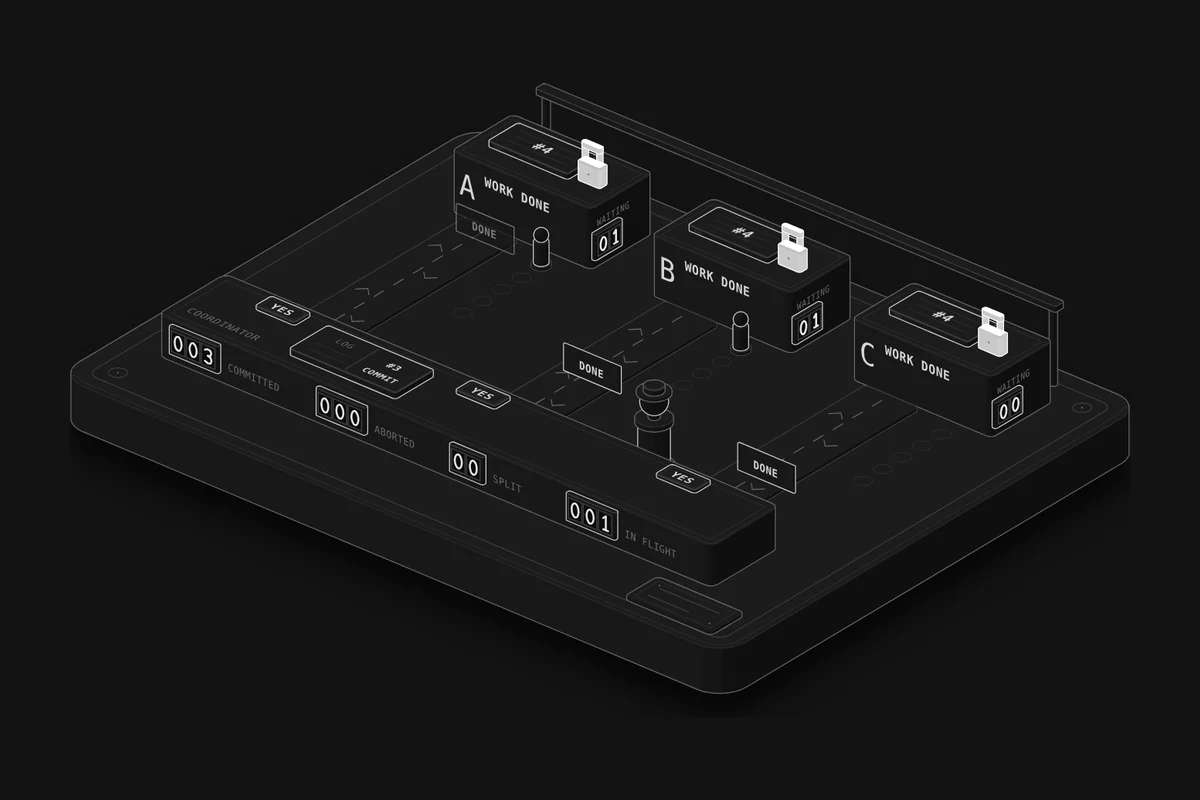
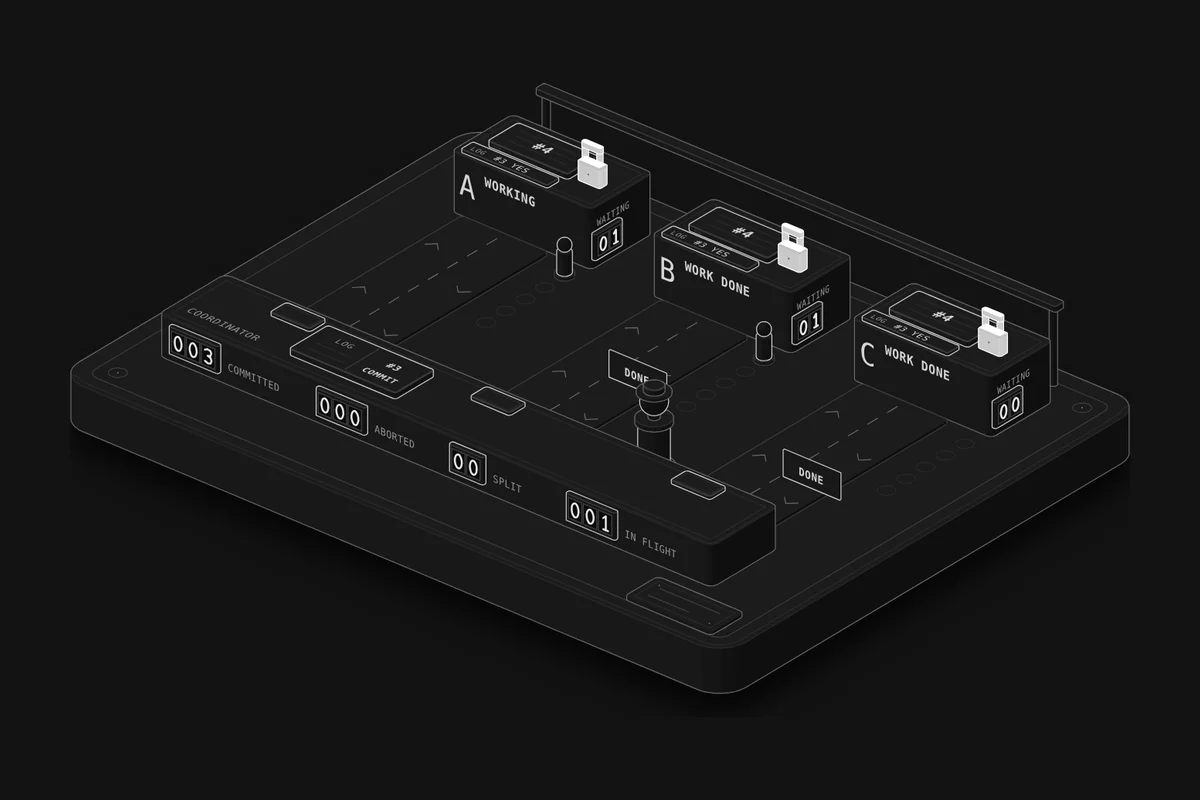
Lesson 64: fix review findings (vote plaques, lanes apart, Watch staging, rate stat)
- Vote plaques clear once their transaction is over.
- Out and back lanes an envelope's width apart, so passing envelopes never cover
  each other; customers' line moved right, with a "+N" tag past five.
- Commits a second now shows commits / arrivals over the same window (from 1 s in),
  so a burst of arrivals no longer reads as more commits than offered.
- Watch: crashes armed on the first transaction at 1/20; slow B and far apart warm
  up 1 s and 6 s; the memory-only crash runs on to 0.1 s before the coordinator is
  back; Ask the others picks a run whose crashed transaction got three yes votes
  and narrates the NOT SURE replies.
- Readout drops held messages after about a second; the crash-armed line reads as
  a sentence; aria label puts IN FLIGHT on the desk front.
- Each participant's LOG tab shows its last forced prepare record.
- Lit means the closed padlock only; the DOWN sign is unlit.

Claude-Session: https://claude.ai/code/session_01S5z2gCvevbrGU3fXgpGDmP

diff --git a/src/lessons/twophase/page.ts b/src/lessons/twophase/page.ts
@@ -100,7 +100,7 @@ const EXPERIMENTS = [
       "Before PREPARE, nobody has promised anything: each participant waits out its timeout (" + GIVE_UP + " here), rolls back and frees its row, and its customers are served while the coordinator is still down. A yes vote changes that. The participant has written a prepare record to its own log and promised to commit if told to, and it doesn't know how the others voted. It can't roll back on its own, because the coordinator may already have decided to commit and told the client; it can't commit on its own, because someone may have voted no. It is in doubt, and its row stays locked until it hears the decision: " + ms(C.voted.locked) + " here against " + ms(C.before.locked) + ", the whole outage plus the next question, with nobody served. That is the blocking problem of two-phase commit. A real outage lasts as long as the restart or the failover, often minutes, and the rows stay locked all that time.",
       "Antes de PREPARAR, nadie prometió nada: cada participante espera su tiempo límite (timeout, " + GIVE_UP + " aquí), revierte y libera su fila, y sus clientes se atienden aunque el coordinador siga caído. Un voto sí cambia eso. El participante escribió un registro de preparación en su propio log y prometió confirmar (commit) si se lo piden, y no sabe cómo votaron los demás. No puede revertir por su cuenta, porque el coordinador quizá ya decidió confirmar y se lo dijo al cliente; no puede confirmar por su cuenta, porque alguien quizá votó no. Está en duda (in doubt), y su fila sigue bloqueada (lock) hasta que conoce la decisión: " + ms(C.voted.locked) + " aquí contra " + ms(C.before.locked) + ", toda la caída más la siguiente consulta, sin atender a nadie. Ese es el problema de bloqueo del commit en dos fases. Una caída real dura lo que tarde el reinicio o la conmutación (failover), a menudo minutos, y las filas siguen bloqueadas todo ese tiempo.",
     ),
-    watch: { crash: "voted", b: "normal", net: "near", log: "log", doubt: "wait", arm: 0.1 },
+    watch: { crash: "voted", b: "normal", net: "near", log: "log", doubt: "wait", arm: 0, speed: 0.05 },
   },
   {
     id: "slow",
@@ -117,7 +117,7 @@ const EXPERIMENTS = [
       "A finishes its work quickly, but the coordinator can't send PREPARE until B is done too, and can't send COMMIT until every vote is in. A keeps its lock until the decision reaches it, the same moment as B: " + ms(W.normal.holdA) + " → " + ms(W.slow.holdA) + " a transaction, the same as B. Every participant holds its locks for the slowest participant's work plus the protocol's trips, so A's own customers now wait " + ms(W.slow.waitA) + " on average instead of " + ms(W.normal.waitA) + ", for a row A finished with long ago. Two-phase commit ties the participants together: their lock time is the slowest one's. That is why distributed transactions should do their reads and checks before taking locks, and touch as few participants as they can.",
       "A termina su trabajo rápido, pero el coordinador no puede enviar PREPARAR hasta que B también termine, ni CONFIRMAR hasta tener todos los votos. A mantiene su bloqueo hasta que le llega la decisión, en el mismo momento que B: " + ms(W.normal.holdA) + " → " + ms(W.slow.holdA) + " por transacción, lo mismo que B. Cada participante retiene sus bloqueos durante el trabajo del participante más lento más los viajes del protocolo, así que los clientes propios de A ahora esperan " + ms(W.slow.waitA) + " en promedio en vez de " + ms(W.normal.waitA) + ", por una fila con la que A terminó hace rato. El commit en dos fases ata a los participantes: su tiempo de bloqueo es el del más lento. Por eso las transacciones distribuidas deberían hacer sus lecturas y validaciones antes de tomar bloqueos, y tocar la menor cantidad de participantes posible.",
     ),
-    watch: { crash: "voted", b: "slow", net: "near", log: "log", doubt: "wait" },
+    watch: { crash: "voted", b: "slow", net: "near", log: "log", doubt: "wait", warm: 1 },
   },
   {
     id: "far",
@@ -135,7 +135,7 @@ const EXPERIMENTS = [
       "A row lock is held from the WORK message to the decision: the work, the DONE, PREPARE, vote and decision trips, and two forced log writes. At " + NEAR + " a trip that is " + ms(F.near.holdA) + " a transaction; at " + FAR + " it is " + ms(F.far.holdA) + ". A hot row takes one transaction at a time, so it can't commit more than about one per lock time: " + one(F.near.perSec) + " → " + one(F.far.perSec) + " a second here, and the rest pile up (" + n0(F.far.inFlight) + " waiting after a minute). Overlapping doesn't help, because the transactions queue on the same lock. Network latency that would only slow a request down becomes lock time under two-phase commit, and on a hot row lock time is throughput. Keep transactions that span services rare, short and close together, and split hot rows where you can (several counter rows instead of one).",
       "Un bloqueo de fila se mantiene desde el mensaje TAREA hasta la decisión: el trabajo, los viajes de HECHO, PREPARAR, el voto y la decisión, y dos escrituras forzadas al log. A " + NEAR + " por viaje eso es " + ms(F.near.holdA) + " por transacción; a " + FAR + " es " + ms(F.far.holdA) + ". Una fila caliente (hot row) acepta una transacción a la vez, así que no puede confirmar más de una por tiempo de bloqueo: " + one(F.near.perSec) + " → " + one(F.far.perSec) + " por segundo aquí, y el resto se acumula (" + n0(F.far.inFlight) + " esperando después de un minuto). Superponerlas no ayuda, porque las transacciones hacen fila en el mismo bloqueo. La latencia de red, que solo haría más lenta una solicitud, se vuelve tiempo de bloqueo con el commit en dos fases, y en una fila caliente el tiempo de bloqueo es rendimiento. Mantén raras, cortas y cercanas las transacciones que cruzan servicios, y divide las filas calientes cuando puedas (varias filas contador en vez de una).",
     ),
-    watch: { crash: "voted", b: "normal", net: "far", log: "log", doubt: "wait" },
+    watch: { crash: "voted", b: "normal", net: "far", log: "log", doubt: "wait", warm: 6 },
   },
   {
     id: "log",
@@ -153,7 +153,7 @@ const EXPERIMENTS = [
       "A got COMMIT and committed, and that can't be taken back. B and C are in doubt and keep asking. A coordinator that kept the decision in memory comes back with no record of the transaction, and no record means abort (presumed abort), so B and C roll back: " + cnt(G.memory.split) + " split outcomes in " + n0(G.memory.crashes) + " crashes, the one thing a commit protocol exists to prevent. With the COMMIT record forced to its log before the first COMMIT goes out, the restarted coordinator reads it and sends COMMIT again: " + cnt(G.log.allCommit) + " of " + n0(G.log.crashes) + " committed everywhere, 0 split. That forced write is the commit point: once it is on disk the transaction is committed, whoever has heard. Participants follow the same rule, forcing a prepare record before they vote yes, so one that restarts still knows it is in doubt (lesson 66, Write-Ahead Log).",
       "A recibió CONFIRMAR y confirmó, y eso no se puede deshacer. B y C están en duda y siguen preguntando. Un coordinador que guardó la decisión en memoria vuelve sin registro de la transacción, y sin registro significa abortar (aborto presunto, presumed abort), así que B y C revierten: " + cnt(G.memory.split) + " resultados divididos en " + n0(G.memory.crashes) + " caídas, justo lo que un protocolo de commit existe para evitar. Con el registro CONFIRMAR forzado al log antes de que salga el primer CONFIRMAR, el coordinador al reiniciar lo lee y vuelve a enviar CONFIRMAR: " + cnt(G.log.allCommit) + " de " + n0(G.log.crashes) + " confirmadas en todos, 0 divididas. Esa escritura forzada es el punto de commit: una vez en disco, la transacción está confirmada, lo sepa quien lo sepa. Los participantes siguen la misma regla y fuerzan un registro de preparación antes de votar sí, así que uno que se reinicia sigue sabiendo que está en duda (lección 66, Registro de escritura anticipada).",
     ),
-    watch: { crash: "midsend", b: "normal", net: "near", log: "memory", doubt: "wait", arm: 0.1 },
+    watch: { crash: "midsend", b: "normal", net: "near", log: "memory", doubt: "wait", arm: 0, toBack: 0.1, speed: 0.05 },
   },
   {
     id: "peers",
@@ -171,7 +171,7 @@ const EXPERIMENTS = [
       "A participant in doubt can learn the outcome from a peer that knows it: one that voted no (it rolled back at once), one that has already received the decision, or one that hasn't voted yet (it can still say no, so it rolls back and says so). Here that is B when it voted no, " + pct(Q.peers.bNo) + " of the crashes, and then A and C are free within milliseconds. When all three voted yes and none has heard the decision, nobody can decide: committing would be wrong if the coordinator had decided to abort (a vote that timed out, say), aborting would be wrong if it had committed and told the client. So the rows stayed locked until the coordinator was back in " + pct(Q.peers.blocked) + " of crashes, against " + pct(Q.wait.blocked) + " waiting. This is the cooperative termination protocol, and it shows the blocking window is built into two-phase commit: between the last yes and the decision, only the coordinator knows. Closing it takes replicating the coordinator's decision, so another node can finish from the log: Paxos Commit does that, and Spanner runs two-phase commit over Paxos groups.",
       "Un participante en duda puede conocer el resultado por un par que lo sepa: uno que votó no (revirtió de inmediato), uno que ya recibió la decisión, o uno que todavía no votó (aún puede decir que no, así que revierte y lo dice). Aquí ese es B cuando votó no, el " + pct(Q.peers.bNo) + " de las caídas, y entonces A y C quedan libres en milisegundos. Cuando los tres votaron sí y ninguno conoce la decisión, nadie puede decidir: confirmar estaría mal si el coordinador hubiera decidido abortar (por un voto que superó su tiempo límite, por ejemplo), abortar estaría mal si hubiera confirmado y se lo hubiera dicho al cliente. Así que las filas quedaron bloqueadas hasta que volvió el coordinador en el " + pct(Q.peers.blocked) + " de las caídas, contra el " + pct(Q.wait.blocked) + " esperando. Esto es el protocolo de terminación cooperativa (cooperative termination protocol), y muestra que la ventana de bloqueo es parte del commit en dos fases: entre el último sí y la decisión, solo el coordinador sabe. Cerrarla requiere replicar la decisión del coordinador, para que otro nodo pueda terminar desde el log: Paxos Commit hace eso, y Spanner ejecuta el commit en dos fases sobre grupos Paxos.",
     ),
-    watch: { crash: "voted", b: "no", net: "near", log: "log", doubt: "peers", arm: 0.1 },
+    watch: { crash: "voted", b: "no", net: "near", log: "log", doubt: "peers", arm: 0, allYes: true, speed: 0.05 },
   },
 ];
 
@@ -207,13 +207,13 @@ export default defineLesson({
     plate: {
       title: t("Commit desk", "Mesa de commit"),
       keys: [
-        { mark: "lit", label: t("A row locked by a transaction; the DOWN sign while the coordinator is down", "Una fila bloqueada por una transacción; el cartel CAÍDO mientras el coordinador está caído") },
+        { mark: "lit", label: t("A row's padlock, closed while a transaction holds the row", "El candado de una fila, cerrado mientras una transacción tiene la fila") },
         { mark: "raised", label: t("Envelopes: out to a counter on the left half of its lane, back on the right half; questions between counters on the peer line", "Sobres: hacia un mostrador por la mitad izquierda de su carril, de vuelta por la derecha; preguntas entre mostradores por la línea entre pares") },
         { mark: "flat", label: t("The lanes between the coordinator and each participant", "Los carriles entre el coordinador y cada participante") },
       ],
       caption: t(
-        "Played at 1/50 of real speed (change it under Speed). Times are illustrative and round: a message takes " + NEAR + " one way (" + FAR + " to another region), the work 5–15 ms, a forced log write 2 ms. Ten transactions a second, each touching the one hot row at every counter, and ten local requests a second at each counter, each holding the row 2 ms. A crashed coordinator is back after " + DOWN + ". A participant that hasn't voted gives up after " + GIVE_UP + " (" + GIVE_UP_FAR + " far apart); one that voted yes starts asking after " + ASK + " (" + ASK_FAR + ") and asks again every " + AGAIN + ". The front of each counter shows its state; the plaques on the desk, the votes received; the log, the last decision written down. Counters: committed, aborted, split (committed at some participants and rolled back at others), transactions in flight, and customers waiting at each counter.",
-        "Se reproduce a 1/50 de la velocidad real (cámbiala en Velocidad). Los tiempos son ilustrativos y redondos: un mensaje tarda " + NEAR + " de ida (" + FAR + " a otra región), el trabajo 5–15 ms, una escritura forzada al log 2 ms. Diez transacciones por segundo, cada una toca la única fila caliente de cada mostrador, y diez solicitudes locales por segundo en cada mostrador, cada una retiene la fila 2 ms. Un coordinador caído vuelve después de " + DOWN + ". Un participante que no votó se rinde después de " + GIVE_UP + " (" + GIVE_UP_FAR + " si están lejos); uno que votó sí empieza a preguntar después de " + ASK + " (" + ASK_FAR + ") y vuelve a preguntar cada " + AGAIN + ". El frente de cada mostrador muestra su estado; las placas del escritorio, los votos recibidos; el log, la última decisión escrita. Contadores: confirmadas, abortadas, divididas (confirmadas en algunos participantes y revertidas en otros), transacciones en curso y clientes esperando en cada mostrador.",
+        "Played at 1/50 of real speed (change it under Speed). Times are illustrative and round: a message takes " + NEAR + " one way (" + FAR + " to another region), the work 5–15 ms, a forced log write 2 ms. Ten transactions a second, each touching the one hot row at every counter, and ten local requests a second at each counter, each holding the row 2 ms. A crashed coordinator is back after " + DOWN + ". A participant that hasn't voted gives up after " + GIVE_UP + " (" + GIVE_UP_FAR + " far apart); one that voted yes starts asking after " + ASK + " (" + ASK_FAR + ") and asks again every " + AGAIN + ". Each counter shows its state on its front and its last prepare record on its LOG tab; the desk shows the votes received on its plaques and its last decision in its log. Counters: committed, aborted, split (committed at some participants and rolled back at others), in flight, and customers waiting.",
+        "Se reproduce a 1/50 de la velocidad real (cámbiala en Velocidad). Los tiempos son ilustrativos y redondos: un mensaje tarda " + NEAR + " de ida (" + FAR + " a otra región), el trabajo 5–15 ms, una escritura forzada al log 2 ms. Diez transacciones por segundo, cada una toca la única fila caliente de cada mostrador, y diez solicitudes locales por segundo en cada mostrador, cada una retiene la fila 2 ms. Un coordinador caído vuelve después de " + DOWN + ". Un participante que no votó se rinde después de " + GIVE_UP + " (" + GIVE_UP_FAR + " si están lejos); uno que votó sí empieza a preguntar después de " + ASK + " (" + ASK_FAR + ") y vuelve a preguntar cada " + AGAIN + ". Cada mostrador muestra su estado al frente y su último registro de preparación en su pestaña LOG; el escritorio muestra los votos recibidos en sus placas y su última decisión en su log. Contadores: confirmadas, abortadas, divididas (confirmadas en algunos participantes y revertidas en otros), en curso y clientes esperando.",
       ),
       stage: { "data-commit-desk": "" },
       label: t("Two-phase commit simulation. Space pauses or resumes.", "Simulación de commit en dos fases. Espacio pausa o reanuda."),
@@ -223,7 +223,7 @@ export default defineLesson({
       ["committed", t("Committed", "Confirmadas")],
       ["aborted", t("Aborted", "Abortadas")],
       ["split", t("Split", "Divididas")],
-      ["rate", t("Commits a second", "Confirmadas por segundo"), "–"],
+      ["rate", t("Commits / arrivals a second", "Confirmadas / llegadas por segundo"), "–"],
       ["hold", t("Row lock at A", "Bloqueo de fila en A"), "–"],
       ["waiting", t("Customers waiting", "Clientes esperando")],
     ],

diff --git a/src/lessons/twophase/live.ts b/src/lessons/twophase/live.ts
@@ -20,6 +20,8 @@ export default function mount({ P, G, ENV_SVG, CUSTOMER_SVG }, root) {
   const owners = [0, 1, 2].map((i) => q(`[data-owner="${i}"]`));
   const states = [0, 1, 2].map((i) => q(`[data-state="${i}"]`));
   const votes = [0, 1, 2].map((i) => q(`[data-vote="${i}"]`));
+  const plogs = [0, 1, 2].map((i) => q(`[data-plog="${i}"]`));
+  const more = [0, 1, 2].map((i) => q(`[data-more="${i}"]`));
   const recId = q("[data-record-id]"), recText = q("[data-record]");
   const bookLog = q('[data-book="log"]'), bookMem = q('[data-book="memory"]');
   const clerk = q("[data-clerk]"), down = q("[data-down]");
@@ -57,32 +59,41 @@ export default function mount({ P, G, ENV_SVG, CUSTOMER_SVG }, root) {
   // ---------- settings and the run ----------
   const cfg = { point: "voted", b: "normal", net: "near", log: "log", doubt: "wait", speed: 0.02 };
   // the first run's seed: one where a transaction holds the rows a few seconds in, so the still frame shows the locks
-  let model, clock, logAt, from, seed = 10, lastEnd, focus, shownVotes, pendingArm = null;
+  let model, clock, logAt, from, seed = 10, lastEnd, focus, shownVotes, pendingArm = null, lastPrep;
 
-  function restart() {
+  function restart(fixedSeed) {
     for (const e of envs.values()) { e.g.remove(); envFree.push(e); }
     envs.clear();
     for (const c of custs.values()) { c.g.remove(); custFree.push(c); }
     custs.clear();
-    model = makeSim({ b: cfg.b, net: cfg.net, log: cfg.log, doubt: cfg.doubt, trace: true }, seed);
-    seed = (seed * 7 + 3) % 9973 + 1;
-    clock = 0; logAt = 0; from = 0; lastEnd = [null, null, null]; focus = null; shownVotes = ["", "", ""]; pendingArm = null;
+    model = makeSim(simCfg(), fixedSeed ?? seed);
+    if (fixedSeed === undefined) seed = (seed * 7 + 3) % 9973 + 1;
+    clock = 0; logAt = 0; from = 0; lastEnd = [null, null, null]; focus = null; shownVotes = ["", "", ""]; pendingArm = null; lastPrep = ["", "", ""];
+    cur = null; held = null;
     show(bookLog, cfg.log === "log"); show(bookMem, cfg.log !== "log");
     paint();
     showStats();
   }
 
+  const simCfg = () => ({ b: cfg.b, net: cfg.net, log: cfg.log, doubt: cfg.doubt, trace: true });
+
   // ---------- narration ----------
-  let held = null, saidAt = -9, saidRank = 0;
+  // The readout says each step as it starts. A more important message stays up for at least HOLD s of page time; a
+  // less important one that comes meanwhile waits, and is dropped if something newer comes or it waits longer than
+  // STALE s, so the readout never runs behind the picture by more than about a second.
+  const HOLD = 0.9, STALE = 1.1;
+  let cur = null, held = null;
   function say(rank, text) {
-    // a message stays up at least 1.4 s of page time unless a more important one comes; a less important one waits
     const wall = performance.now() / 1000;
-    if (rank < saidRank && wall - saidAt < 1.4) { if (!held || rank >= held.rank) held = { rank, text }; return; }
-    held = null; saidRank = rank; saidAt = wall;
+    if (cur && rank < cur.rank && wall - cur.at < HOLD) { held = { rank, text, at: wall }; return; }
+    held = null; cur = { rank, at: wall };
     root.figure.say(L(text));
   }
   function sayHeld() {
-    if (held && performance.now() / 1000 - saidAt >= 1.4) { const h = held; held = null; saidRank = -1; say(h.rank, h.text); }
+    if (!held) return;
+    const wall = performance.now() / 1000;
+    if (wall - held.at > STALE) { held = null; return; }
+    if (wall - cur.at >= HOLD) { const h = held; held = null; cur = null; say(h.rank, h.text); }
   }
   const ms = (x) => (x < 1 ? Math.round(1000 * x) + " ms" : x.toFixed(2) + " s");
   const list = (xs, en) => (xs.length === 1 ? xs[0] : xs.slice(0, -1).join(", ") + (en ? " and " : " y ") + xs[xs.length - 1]);
@@ -112,6 +123,8 @@ export default function mount({ P, G, ENV_SVG, CUSTOMER_SVG }, root) {
           else say(6, T("coordinator back · no decision logged · questions get ABORT", "coordinador de vuelta · sin decisión en el log · las consultas reciben ABORTAR"));
           break;
         case "doubt": say(5, T(who + " voted yes · no answer · in doubt, row locked", who + " votó sí · sin respuesta · en duda, fila bloqueada")); break;
+        case "prepared": lastPrep[e.i] = "#" + e.id; break;
+        case "unsure": say(5, T(who + " asks " + NAMES[e.j] + " · " + NAMES[e.j] + " voted yes too, not sure · row stays locked", who + " pregunta a " + NAMES[e.j] + " · " + NAMES[e.j] + " también votó sí, no sabe · la fila sigue bloqueada")); break;
         case "split": {
           const c = e.outcome.map((o, i) => (o === "commit" ? NAMES[i] : null)).filter(Boolean), a = e.outcome.map((o, i) => (o === "abort" ? NAMES[i] : null)).filter(Boolean);
           say(8, T(id + " SPLIT · committed at " + list(c, true) + ", rolled back at " + list(a, true), id + " DIVIDIDA · confirmada en " + list(c, false) + ", revertida en " + list(a, false)));
@@ -211,14 +224,19 @@ export default function mount({ P, G, ENV_SVG, CUSTOMER_SVG }, root) {
       else s = STATE.free;
       setText(states[i], L(s));
       counters["wait" + i].setClamped(p.waiting);
+      setText(plogs[i], lastPrep[i] ? lastPrep[i] + " " + L(WORD.yes) : "");
+      const line = (p.holder && p.holder.kind === "local" ? 1 : 0) + p.waiting;
+      setText(more[i], line > G.CUST.max ? "+" + (line - G.CUST.max) : "");
     });
     // the desk
     const co = model.coord;
     show(clerk, co.up); show(down, !co.up);
     const c = focus !== null ? co.txns.get(focus) : null;
+    // the votes for the transaction being decided; blank once it is over, "?" while a crashed coordinator has
+    // forgotten it (a memory-only coordinator forgets everything, plaques included)
     if (c) shownVotes = c.votes.map((v) => (v === null ? "…" : L(WORD[v])));
-    else if (!co.up && cfg.log !== "log") shownVotes = ["", "", ""];
-    else if (!co.up && focus !== null && !co.txns.has(focus)) shownVotes = ["?", "?", "?"];
+    else if (!co.up && cfg.log === "log" && focus !== null) shownVotes = ["?", "?", "?"];
+    else shownVotes = ["", "", ""];
     votes.forEach((el, i) => setText(el, shownVotes[i]));
     setText(recId, co.record ? "#" + co.record.id : "");
     setText(recText, co.record ? L(WORD[co.record.decision]) : "");
@@ -244,9 +262,15 @@ export default function mount({ P, G, ENV_SVG, CUSTOMER_SVG }, root) {
     stat("committed", st.committed);
     stat("aborted", st.aborted);
     stat("split", st.split);
+    // commits and arrivals over the same window, the last 2 s of model time (from 1 s in, the time so far)
     const span = Math.min(2, clock);
-    if (span < 0.5) stat("rate", "–");
-    else { let k = 0; for (let j = st.ends.length - 1; j >= 0 && st.ends[j] > clock - span; j--) k++; stat("rate", (k / span).toFixed(1) + "/s"); }
+    if (span < 1) stat("rate", "–");
+    else {
+      let k = 0, a = 0;
+      for (let j = st.ends.length - 1; j >= 0 && st.ends[j] > clock - span; j--) k++;
+      for (let j = model.all.length - 1; j >= 0 && model.all[j].born > clock - span; j--) a++;
+      stat("rate", (k / span).toFixed(1) + " / " + (a / span).toFixed(1));
+    }
     const h = st.holds[0].slice(-10).map(([, x]) => x);
     stat("hold", h.length ? Math.round(1000 * mean(h)) + " ms" : "–");
     stat("waiting", model.parts.reduce((a, p) => a + p.waiting, 0));
@@ -274,12 +298,16 @@ export default function mount({ P, G, ENV_SVG, CUSTOMER_SVG }, root) {
   }
   root.on("change", (name, value) => set(name, value));
   const wake = () => { if (loop.paused) loop.setPaused(false); };
-  const POINT = { before: T("before PREPARE", "antes de PREPARAR"), voted: T("while the votes come in", "mientras llegan los votos"), midsend: T("after COMMIT reaches A", "tras CONFIRMAR a A") };
+  const ARMED = {
+    before: T("crash armed · the next transaction, once all three are done, before PREPARE", "caída preparada · la siguiente transacción, con los tres listos, antes de PREPARAR"),
+    voted: T("crash armed · the next transaction, as its first vote comes in", "caída preparada · la siguiente transacción, al llegar su primer voto"),
+    midsend: T("crash armed · the next transaction, once COMMIT reaches A", "caída preparada · la siguiente transacción, cuando CONFIRMAR llega a A"),
+  };
   const actions = {
     crash: () => {
       if (!model.coord.up) { say(9, T("the coordinator is already down", "el coordinador ya está caído")); return; }
       model.arm(cfg.point);
-      say(9, T("crash armed · " + POINT[cfg.point].en + " of the next transaction", "caída preparada · " + POINT[cfg.point].es + " de la siguiente transacción"));
+      say(9, ARMED[cfg.point]);
       wake();
     },
     reset: () => { restart(); say(9, T("started over", "empezó de nuevo")); },
@@ -287,11 +315,49 @@ export default function mount({ P, G, ENV_SVG, CUSTOMER_SVG }, root) {
   root.on("action", (name) => actions[name]?.());
 
   // ---------- "Watch it on the machine": an experiment's settings ----------
+  // w.speed: the speed it plays at. w.arm: arm the crash at that model time (0: the first transaction). w.warm: run the
+  // model this far at once, so the counters and the line at the rows have built up. w.toBack: with a crash, run on to
+  // this long before the coordinator is back. w.allYes: use a run whose crashed transaction got three yes votes (the
+  // common case, the one asking the others can't settle).
+  function crashedRun(w, s) {
+    const m = makeSim(simCfg(), s);
+    m.arm(w.crash);
+    for (let t = 0; t <= 1 && !m.st.crashRecs.length; t += 0.002) m.runTo(t);
+    const rec = m.st.crashRecs[0];
+    if (!rec) return null;
+    m.runTo(rec.t + 0.1);
+    return { rec, yes: m.all[rec.id - 1].outcome.every((o) => o === null) };
+  }
   root.on("watch", (w) => {
     for (const key of ["b", "net", "log", "doubt"]) set(key, w[key], true);
     set("point", w.crash, true);
-    restart();
-    if (w.arm !== undefined) pendingArm = { at: w.arm, point: w.crash };
+    if (w.speed) set("speed", w.speed, true);
+    let s;
+    if (w.allYes) for (let k = 0, x = seed; k < 40; k++, x = (x * 7 + 3) % 9973 + 1) { const r = crashedRun(w, x); if (r && r.yes) { s = x; break; } }
+    restart(s);
+    if (w.arm !== undefined) { if (w.arm <= 0) model.arm(w.crash); else pendingArm = { at: w.arm, point: w.crash }; }
+    let to = w.warm || 0;
+    if (w.toBack !== undefined) {
+      for (let t = 0; t <= 1 && !model.st.crashRecs.length; t += 0.002) model.runTo(t);
+      const rec = model.st.crashRecs[0];
+      if (rec) to = Math.max(to, rec.upAt - w.toBack);
+    }
+    if (to > 0) {
+      model.runTo(to);
+      clock = to;
+      // narrate only what is still going on: the crash, if the coordinator is still down
+      for (; logAt < model.log.length && model.log[logAt].t <= to; logAt++) {
+        const e = model.log[logAt];
+        if (e.type === "prepared") lastPrep[e.i] = "#" + e.id;
+        if (e.type === "prepare") focus = e.id;
+        if (e.type === "commit" || e.type === "abort") lastEnd[e.i] = { outcome: e.type, at: e.t };
+      }
+      while (from < model.msgs.length && model.msgs[from].arrive + 0.15 * cfg.speed < clock) from++;
+      cur = null; held = null;
+      if (!model.coord.up) say(6, T("coordinator down · back in " + ms(model.coord.upAt - clock), "coordinador caído · vuelve en " + ms(model.coord.upAt - clock)));
+      else { const n = model.inFlight(); say(1, T("after " + to.toFixed(1) + " s: " + n + (n === 1 ? " transaction" : " transactions") + " in flight", "tras " + to.toFixed(1) + " s: " + n + (n === 1 ? " transacción" : " transacciones") + " en curso")); }
+      paint(); showStats();
+    }
     wake();
   });
 

diff --git a/src/lessons/twophase/figure.ts b/src/lessons/twophase/figure.ts
@@ -1,11 +1,13 @@
 // @ts-nocheck: figure code in the style of the other lessons; drawing shorthands come from src/lib/draw.
 // A coordinator's desk and three participant counters, A, B and C. At the back, each counter keeps one hot row on its
-// top with a padlock (lit while a transaction holds the row), its state on the front face, and a line of local
-// customers waiting for the row. A message lane runs from each counter to the desk: envelopes go out on the left
-// half (WORK, PREPARE, COMMIT/ABORT, answers) and come back on the right half (DONE, votes, ACK, questions). Behind the
-// counters, a peer line carries the participants' questions to each other. On the desk: the coordinator's log with its
-// last decision, a vote plaque at the end of each lane, the clerk (gone while the coordinator is down, with a DOWN
-// sign in its place) and counters of committed, aborted and split transactions.
+// top with a padlock (closed and lit while a transaction holds the row), its own log tab with the last prepare record
+// it forced, its state on the front face, and a line of local customers waiting for the row ("+N" past five). A
+// message lane runs from each counter to the desk: envelopes go out on the left half (WORK, PREPARE, COMMIT/ABORT,
+// answers) and come back on the right half (DONE, votes, ACK, questions), far enough apart that two envelopes passing
+// don't cover each other. Behind the counters, a peer line carries the participants' questions to each other. On the
+// desk: the coordinator's log with its last decision, a vote plaque at the end of each lane, the clerk (gone while the
+// coordinator is down, with a DOWN sign in its place) and counters of committed, aborted, split and in-flight
+// transactions.
 // Built with the Anatomy kit (MIT, github.com/wheresryan22/anatomy) and the shared workbench parts.
 import * as k from "../../../workbench/kit.mjs";
 import { basePlate, labelPlate, digitCounter, person, figurine, plaque, sign, card, faceText, litFill } from "../../../workbench/parts.mjs";
@@ -24,18 +26,20 @@ const CW = 42, CD = 22, CH = 16;
 const C_BACK = -96;
 export const C_FRONT = C_BACK + CD;              // -74
 // Lanes: out (coordinator → counter) and back (counter → coordinator), on the left half in front of each counter.
-export const LANE = { out: -12, back: -5 };       // x offsets from the counter's centre
-const LANE_W = 16;
+export const LANE = { out: -13, back: 5 };        // x offsets from the counter's centre: an envelope's width apart
+const LANE_W = LANE.back - LANE.out + 8;
 export const DESK = { x: -88, y: -4, w: 166, d: 24, r: 2 };
 const DESK_H = 11;
 export const LANE_Y = [C_FRONT + 3, DESK.y - 3];  // where envelopes start and stop
 // Customers: a line in front of the right half of each counter.
-export const CUST = { dx: 11, y0: C_FRONT + 6, step: 7, max: 5, scale: 0.75 };
+export const CUST = { dx: 18, y0: C_FRONT + 6, step: 7, max: 5, scale: 0.75 };
 // The peer line behind the counters.
 export const RAIL = { y: C_BACK - 6, z: 22, x0: CX[0] - 18, x1: CX[2] + 18 };
 // The row and its padlock on each counter's top.
 const ROW = { dx: -16, y: C_BACK + 4, w: 24, d: 11 };
 export const LOCK = { dx: 13, y: C_BACK + 12 };
+// The participant's own log: a tab on the counter's top, in front of the row, with the last prepare record it forced.
+const PLOG = { dx: -19, y: C_FRONT - 5.4, w: 26, d: 4.4 };
 const CLERK = [33, -13, 0];
 
 export const ENV = { w: 17, h: 7 };             // an envelope
@@ -75,6 +79,11 @@ function counter(i) {
   out.push(L([0, 1, 2].map((j) => k.lineOnTop([row.x + 3, row.y + 2.6 + j * 2.6], [row.x + row.w - 3, row.y + 2.6 + j * 2.6], CH + 1.4, P)).join(""), { tone: "faint" }));
   out.push(text(row.x + 2, row.y + row.d, CH + 0.3, t("ROW", "FILA"), 1.1, { tone: "lo" }));
   out.push(faceText(P, [row.x + row.w / 2, row.y + row.d * 0.62, CH + 1.4], "", { face: "top", size: 4, tone: "hi", anchor: "middle", attr: `data-owner="${i}"` }));
+  // its own log: the last prepare record it forced before voting yes
+  const pl = { x: cx + PLOG.dx, y: PLOG.y, w: PLOG.w, d: PLOG.d, r: 0.6 };
+  out.push(S(k.slabOf(pl, CH, 0.8, P, 3, 0.2), { tone: "hi", crease: "lo" }));
+  out.push(faceText(P, [pl.x + 1.6, pl.y + pl.d - 1.2, CH + 0.8], "LOG", { face: "top", size: 2.2, tone: "mid" }));
+  out.push(faceText(P, [pl.x + 8.6, pl.y + pl.d - 1.1, CH + 0.8], "", { face: "top", size: 2.6, tone: "hi", attr: `data-plog="${i}"` }));
   // front face: the letter and the state
   out.push(text(cx - CW / 2 + 2.4, C_FRONT, 5.6, "ABC"[i], 8, { tone: "hi" }));
   out.push(faceText(P, [cx - 11, C_FRONT, 10.4], "", { size: 3.4, tone: "hi", attr: `data-state="${i}"` }));
@@ -119,11 +128,12 @@ function lane(i) {
   out.push(L(dash.join(""), { tone: "mid" }), L(chev.join(""), { tone: "mid" }));
   return out.join("");
 }
-// the floor marks where customers stand
+// the floor marks where customers stand, and the "+N" tag past the last one
 function queueMarks(i) {
   const x = CX[i] + CUST.dx, pts = [];
   for (let j = 0; j < CUST.max; j++) pts.push(k.ring(x, CUST.y0 + j * CUST.step, 2.2, 0, P, 14));
-  return L(pts.join(""), { tone: "faint" });
+  return L(pts.join(""), { tone: "faint" })
+    + faceText(P, [x, CUST.y0 + CUST.max * CUST.step + 0.6, 0], "", { face: "top", size: 3, tone: "mid", anchor: "middle", attr: `data-more="${i}"` });
 }
 
 // ---------- the coordinator's desk ----------
@@ -163,7 +173,7 @@ function clerk() {
   return `<g data-clerk>${person(P, CLERK, { scale: 0.9, hat: "cap" })}</g>`;
 }
 function downSign() {
-  return `<g class="wb-lit-group" data-down style="display:none">${litFill(sign(P, { x: CLERK[0] - 13, y: CLERK[1] + 2, z: 12, w: 26, h: 8, text: t("DOWN", "CAÍDO"), lit: true }))}</g>`;
+  return `<g data-down style="display:none">${sign(P, { x: CLERK[0] - 13, y: CLERK[1] + 2, z: 12, w: 26, h: 8, text: t("DOWN", "CAÍDO") })}</g>`;
 }
 
 // ---------- moving parts, drawn at the origin and moved with translateAlong ----------
@@ -182,8 +192,8 @@ export function buildFigure() {
     width: WIDTH,
     height: HEIGHT,
     label: t(
-      "A coordinator's desk at the front and three participant counters, A, B and C, at the back, on a base plate. Each counter keeps one row on its top with a padlock that closes and lights while a transaction holds the row; its front face shows the letter and its state (working, prepared, in doubt), and a line of small customers in front of it waits for the row, with a counter of how many are waiting on its side. A lane runs from each counter to the desk: envelopes go out to the counter on the left half (work, prepare, commit or abort) and come back on the right half (done, the vote, ack). Behind the counters, a peer line carries questions between participants. On the desk: the coordinator's log with the last decision it recorded, a plaque at the end of each lane with that participant's vote, the clerk, replaced by a lit DOWN sign while the coordinator is down, and counters of committed, aborted and split transactions, and on its side the transactions in flight.",
-      "Un escritorio del coordinador adelante y tres mostradores participantes, A, B y C, al fondo, sobre una placa base. Cada mostrador guarda una fila sobre su tapa con un candado que se cierra y se enciende mientras una transacción tiene la fila; su cara frontal muestra la letra y su estado (trabajando, preparada, en duda), y una fila de clientes pequeños frente a él espera la fila, con un contador al costado de cuántos esperan. Un carril va de cada mostrador al escritorio: los sobres van al mostrador por la mitad izquierda (tarea, preparar, confirmar o abortar) y vuelven por la mitad derecha (hecho, el voto, ack). Detrás de los mostradores, una línea entre pares lleva preguntas entre participantes. Sobre el escritorio: el log del coordinador con la última decisión que registró, una placa al final de cada carril con el voto de ese participante, el empleado, reemplazado por un cartel encendido CAÍDO mientras el coordinador está caído, y contadores de transacciones confirmadas, abortadas y divididas, y en su costado las transacciones en curso.",
+      "A coordinator's desk at the front and three participant counters, A, B and C, at the back, on a base plate. Each counter keeps one row on its top with a padlock that closes and lights while a transaction holds the row, and in front of the row a small log tab with the last prepare record the participant forced before voting yes; its front face shows the letter and its state (working, prepared, in doubt), and a line of small customers to the right of the lane waits for the row, with a +N tag when more wait than the line shows, and a counter of how many are waiting on the counter's right side. A lane runs from each counter to the desk: envelopes go out to the counter on the left half (work, prepare, commit or abort) and come back on the right half (done, the vote, ack), side by side so they never cover each other. Behind the counters, a peer line carries questions between participants. On the desk: the coordinator's log with the last decision it recorded, a plaque at the end of each lane with that participant's vote, the clerk, replaced by a DOWN sign while the coordinator is down, and along its front, counters of committed, aborted, split and in-flight transactions.",
+      "Un escritorio del coordinador adelante y tres mostradores participantes, A, B y C, al fondo, sobre una placa base. Cada mostrador guarda una fila sobre su tapa con un candado que se cierra y se enciende mientras una transacción tiene la fila, y delante de la fila una pequeña pestaña de log con el último registro de preparación que el participante forzó antes de votar sí; su cara frontal muestra la letra y su estado (trabajando, preparada, en duda), y una fila de clientes pequeños a la derecha del carril espera la fila, con una etiqueta +N cuando esperan más de los que caben, y un contador de cuántos esperan en el costado derecho del mostrador. Un carril va de cada mostrador al escritorio: los sobres van al mostrador por la mitad izquierda (tarea, preparar, confirmar o abortar) y vuelven por la mitad derecha (hecho, el voto, ack), uno al lado del otro para que nunca se tapen. Detrás de los mostradores, una línea entre pares lleva preguntas entre participantes. Sobre el escritorio: el log del coordinador con la última decisión que registró, una placa al final de cada carril con el voto de ese participante, el empleado, reemplazado por un cartel CAÍDO mientras el coordinador está caído, y a lo largo de su frente, contadores de transacciones confirmadas, abortadas, divididas y en curso.",
     ),
     body: [
       plate(),

diff --git a/src/lessons/twophase/sim.ts b/src/lessons/twophase/sim.ts
@@ -286,6 +286,7 @@ export function makeSim(cfgIn = {}, seed = 1) {
         send(p.i, m.from, "reply", b.id, "abort");
       }
     } else if (m.kind === "reply") {
+      if (b.state === "prepared" && m.value === "unknown") note({ t: now, type: "unsure", i: p.i, j: m.from, id: b.id });
       if (b.state !== "prepared" || m.value === "unknown") return;
       finish(p, b, m.value, "peer:" + m.from);
       send(p.i, COORD, "ack", b.id);
@@ -323,6 +324,7 @@ export function makeSim(cfgIn = {}, seed = 1) {
         const { p, b } = e.x;
         if (b.state !== "forcing") break;
         b.state = "prepared"; b.votedAt = now;
+        note({ t: now, type: "prepared", i: p.i, id: b.id });
         send(p.i, COORD, "vote", b.id, "yes");
         at(now + doubtAfter, "doubt", e.x);
         break;
